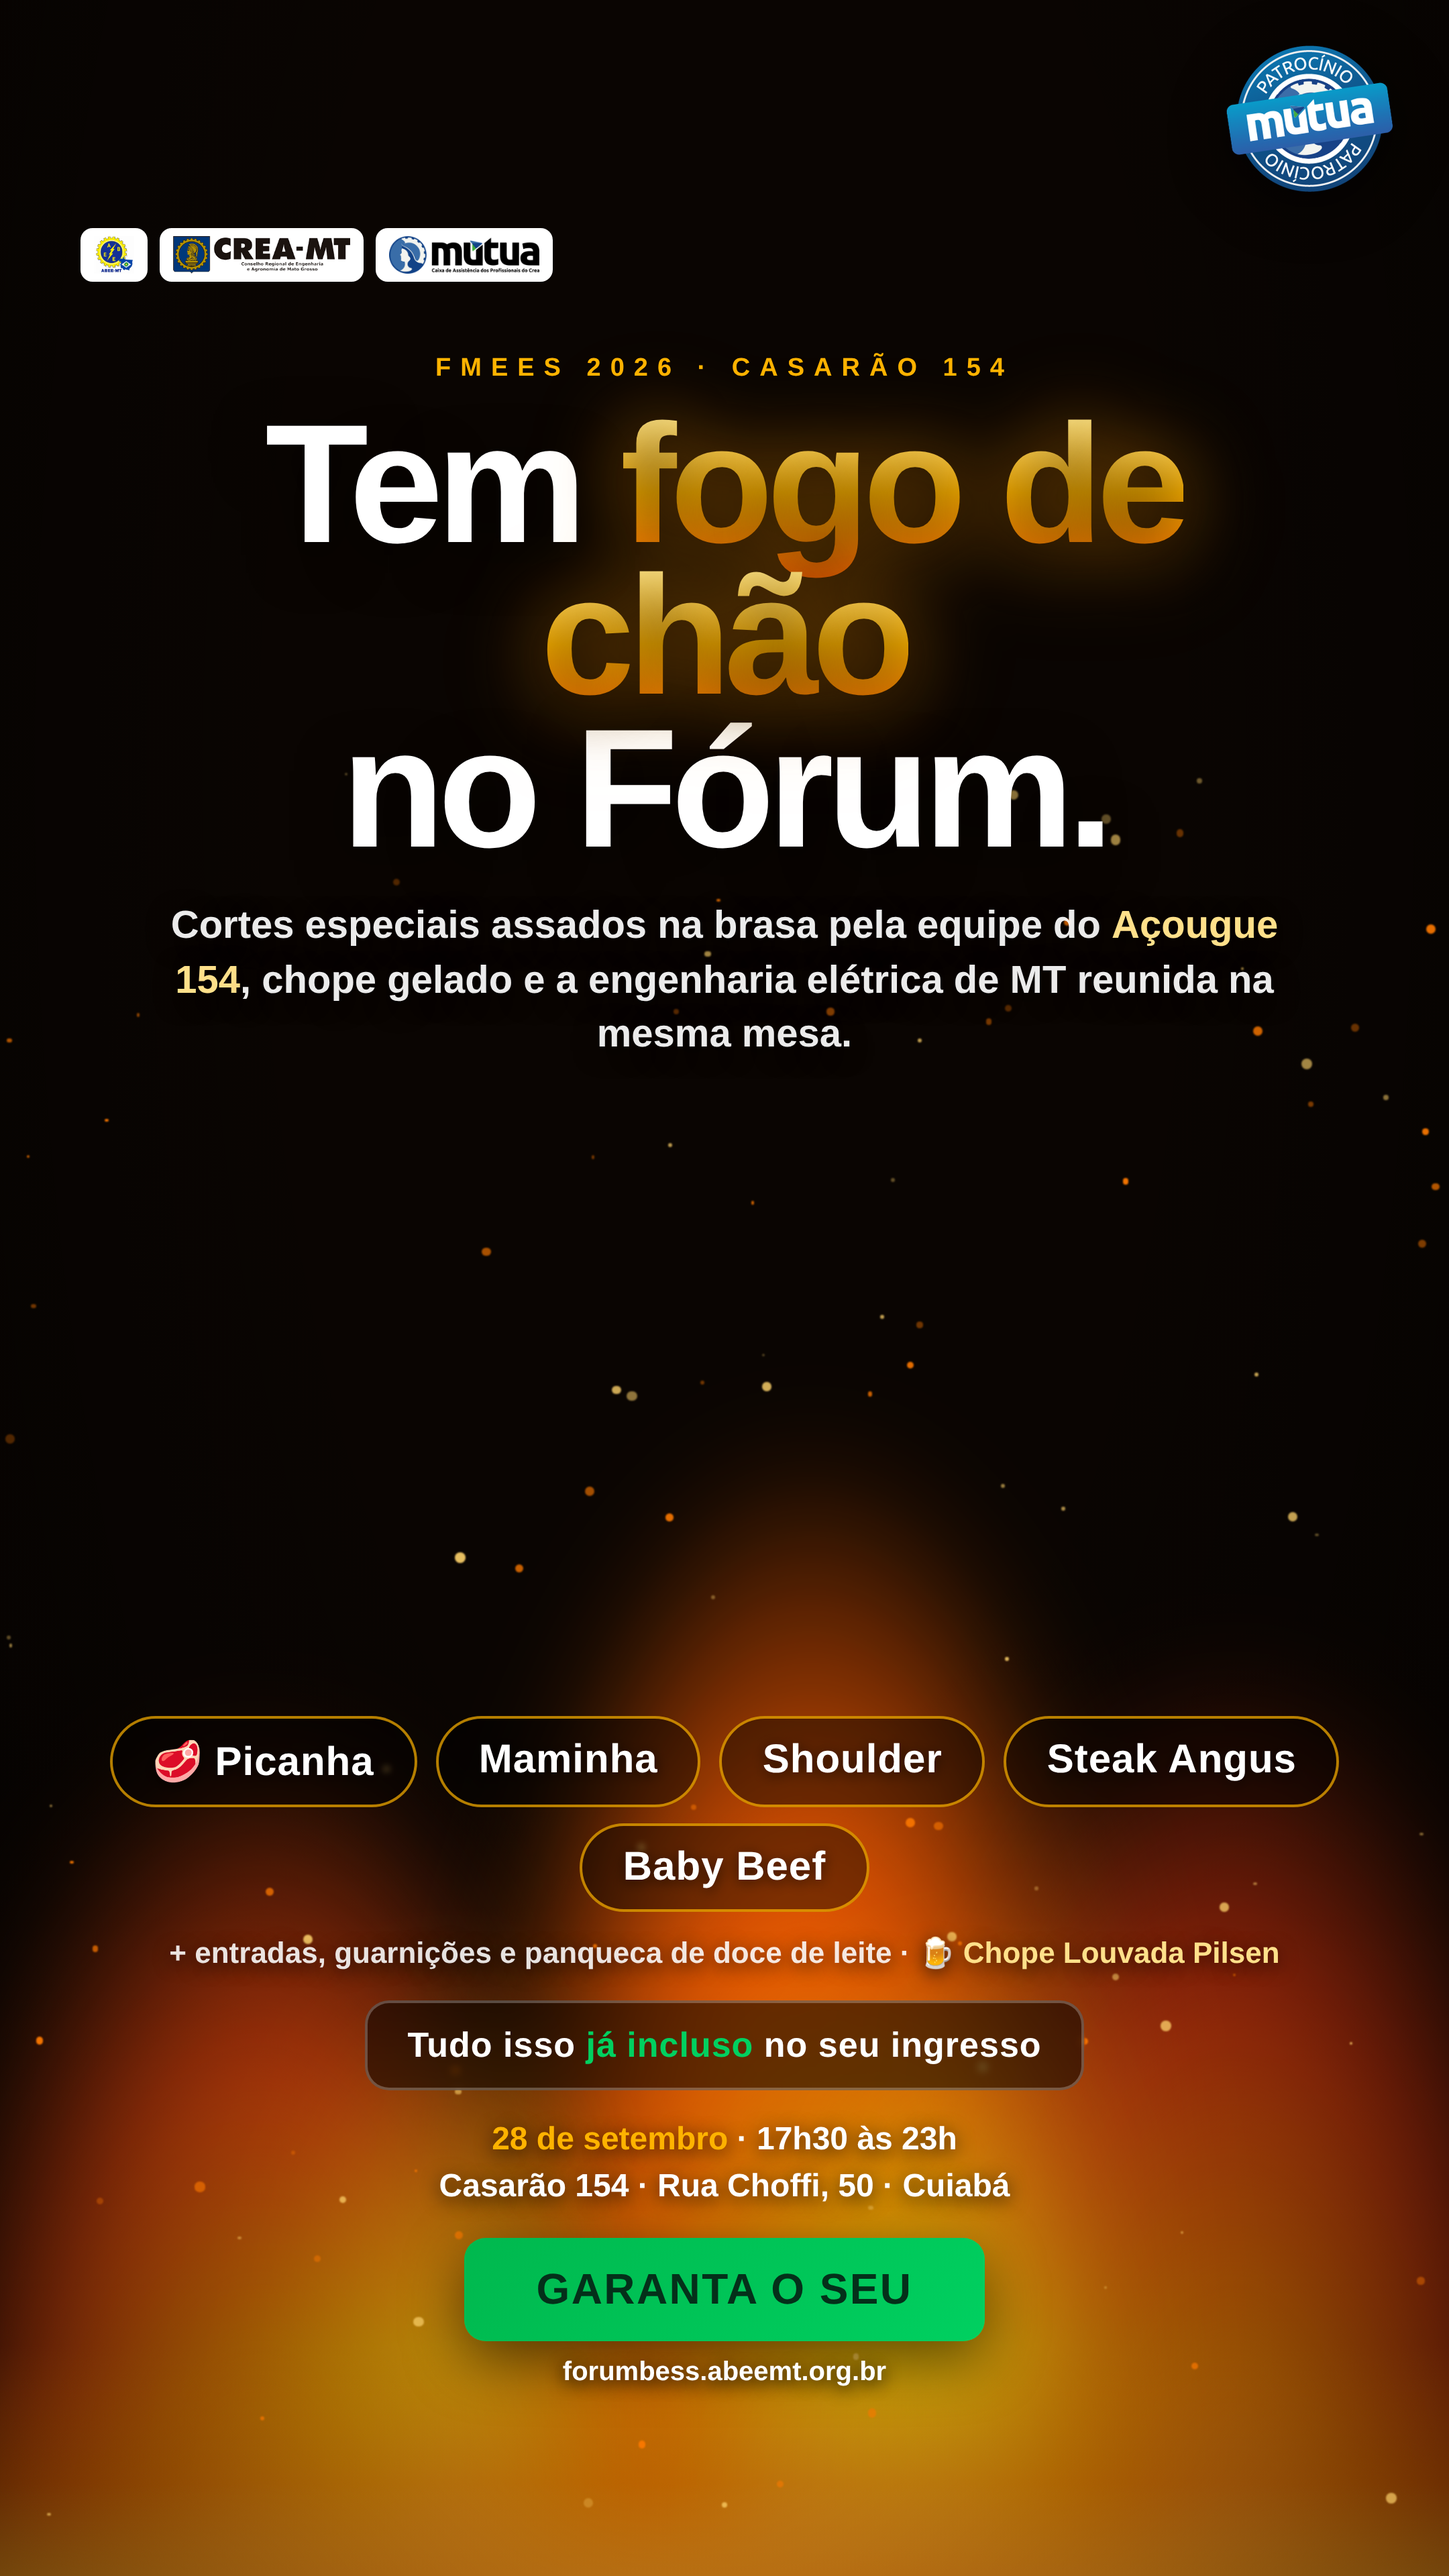
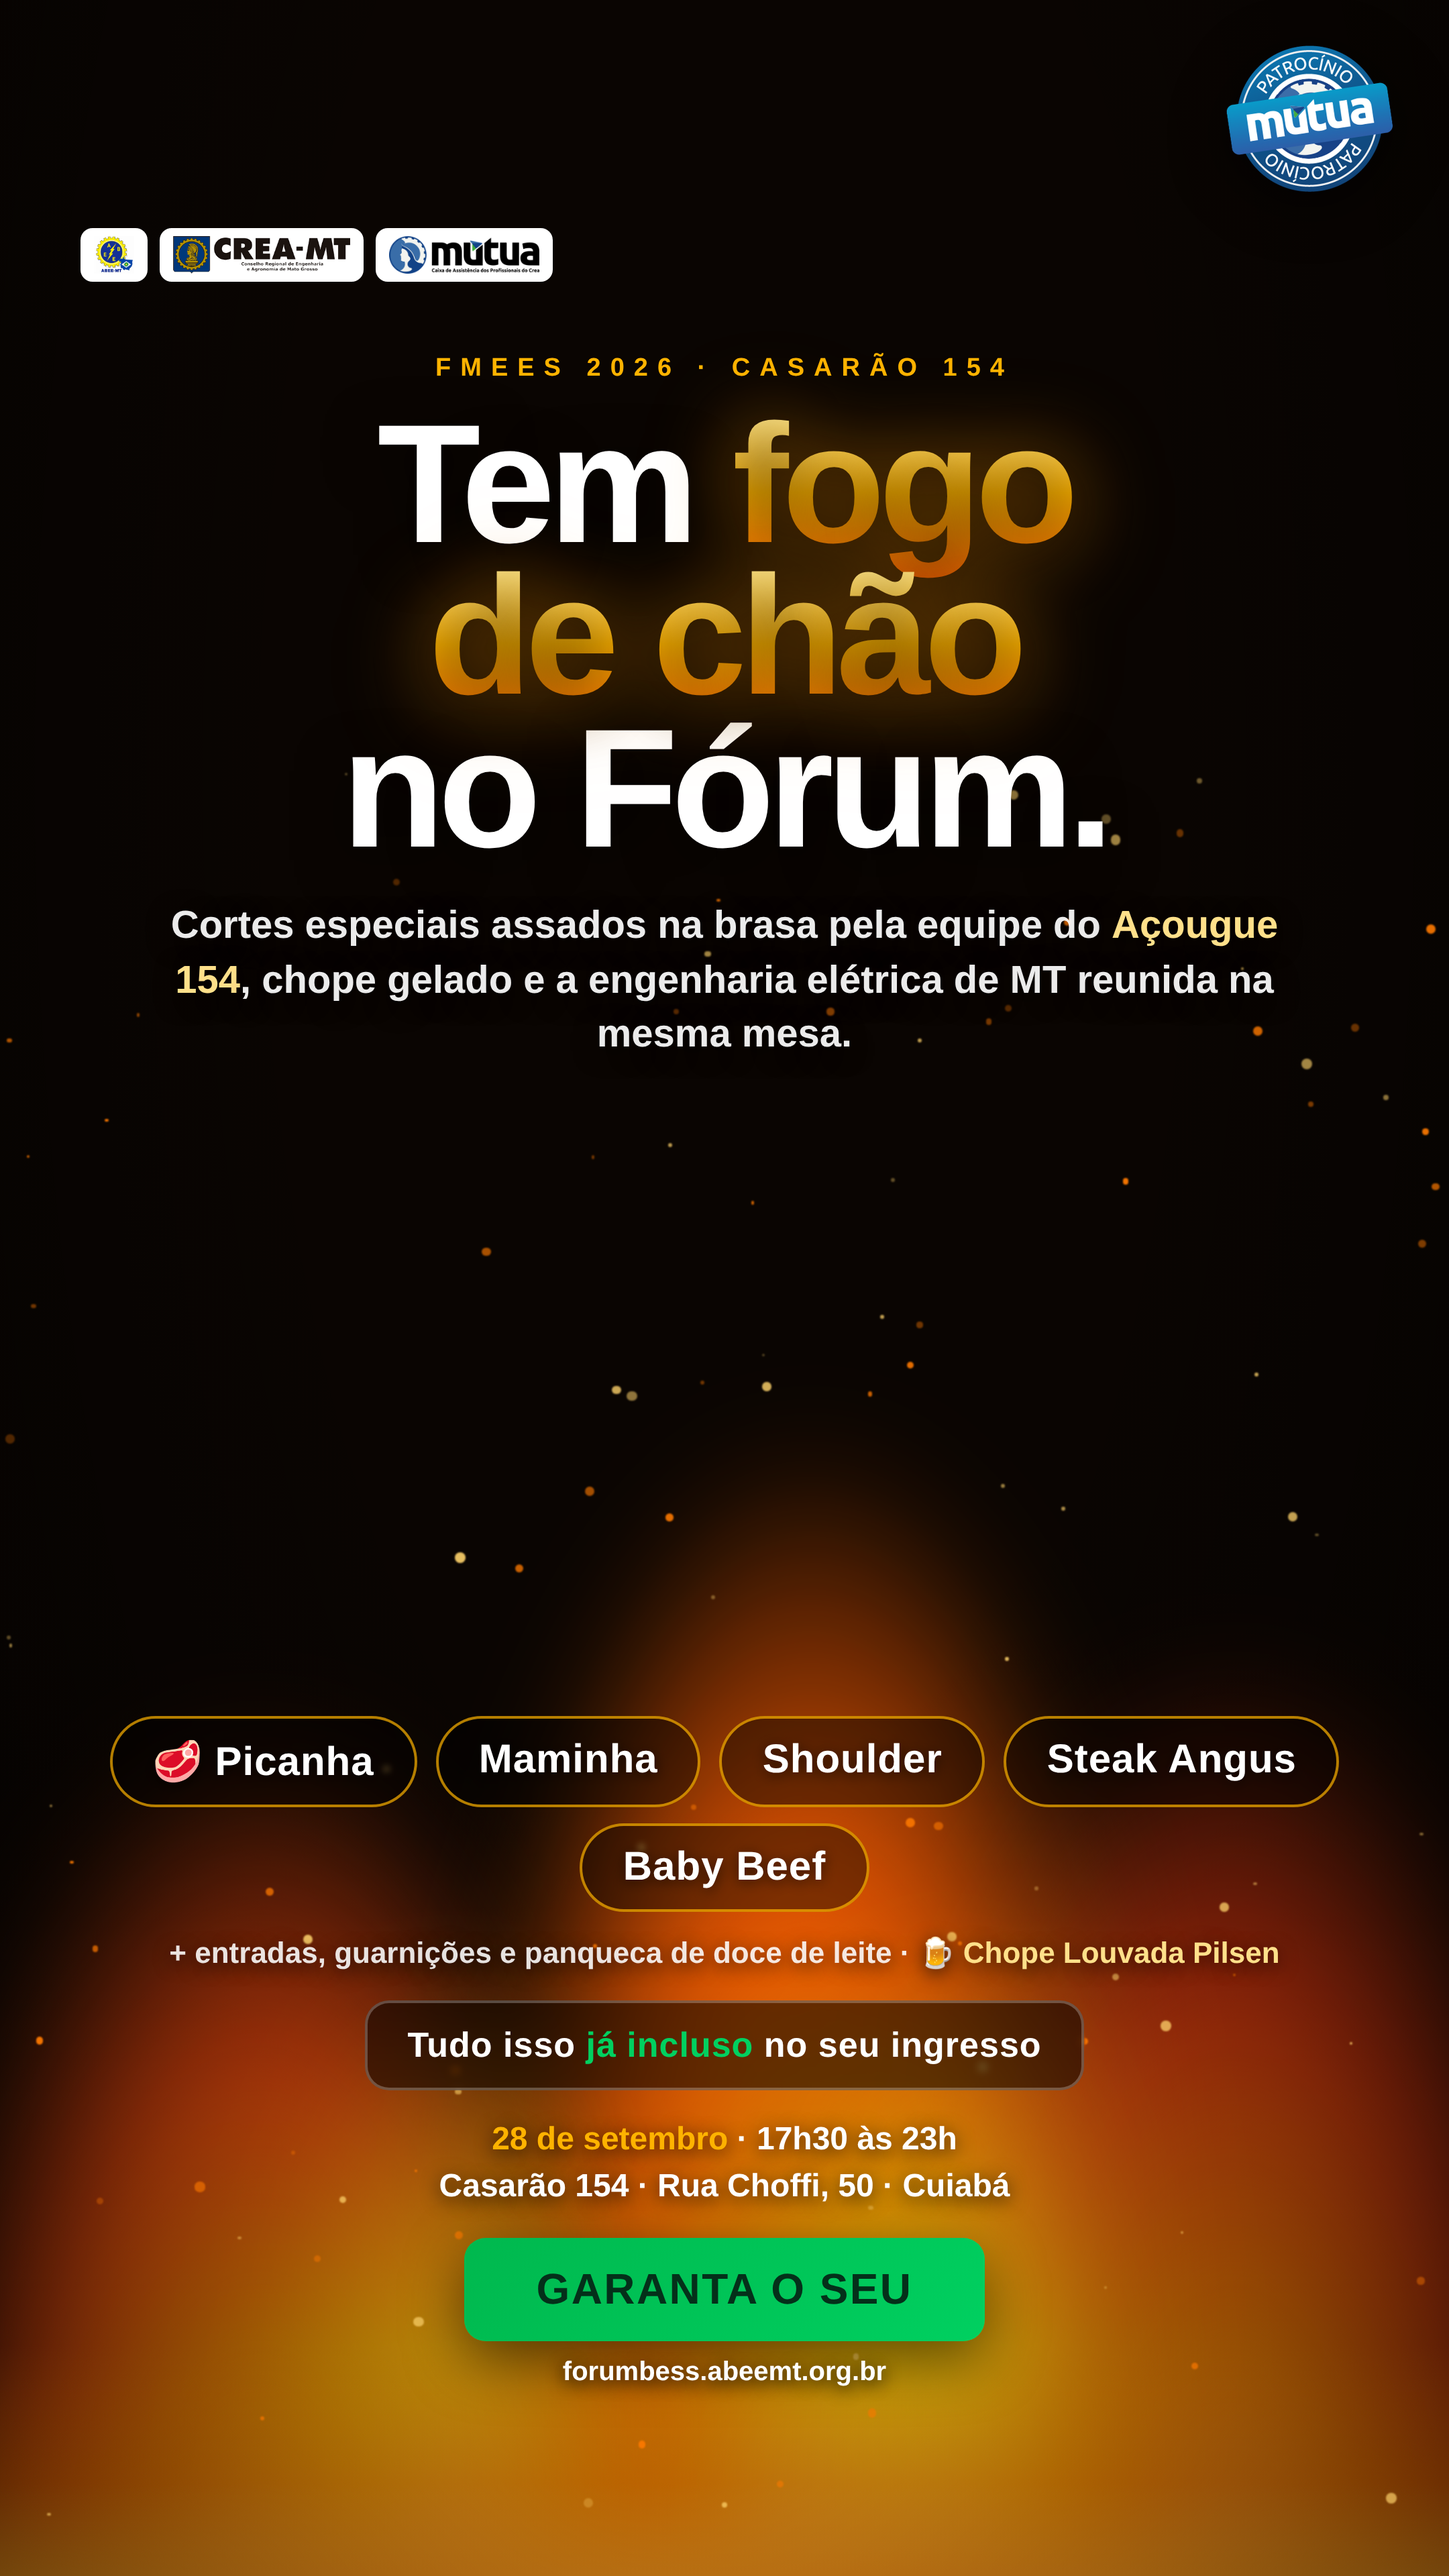
Ajusta quebra do titulo no story do fogo de chao
Claude-Session: https://claude.ai/code/session_01L6FrgRcPLt2sf6cMtbefz6

Changed region(s): [[0.1861, 0.1562, 0.8375, 0.2812]]

diff --git a/forum-bess/social/fogo/fogo-story.html b/forum-bess/social/fogo/fogo-story.html
@@ -47,7 +47,7 @@ body{background:#000;font-family:Montserrat,'Segoe UI',Arial,sans-serif;color:#f
[1 lines of base64/hex data omitted]
     </div>
     <div class="kick">FMEES 2026 · Casarão 154</div>
-    <div class="h1">Tem <em>fogo de chão</em><br>no Fórum.</div>
+    <div class="h1">Tem <em>fogo<br>de chão</em><br>no Fórum.</div>
     <div class="sub">Cortes especiais assados na brasa pela equipe do <b>Açougue 154</b>, chope gelado e a engenharia elétrica de MT reunida na mesma mesa.</div>
     <div class="cuts">
       <span class="cut">🥩 Picanha</span><span class="cut">Maminha</span><span class="cut">Shoulder</span>
